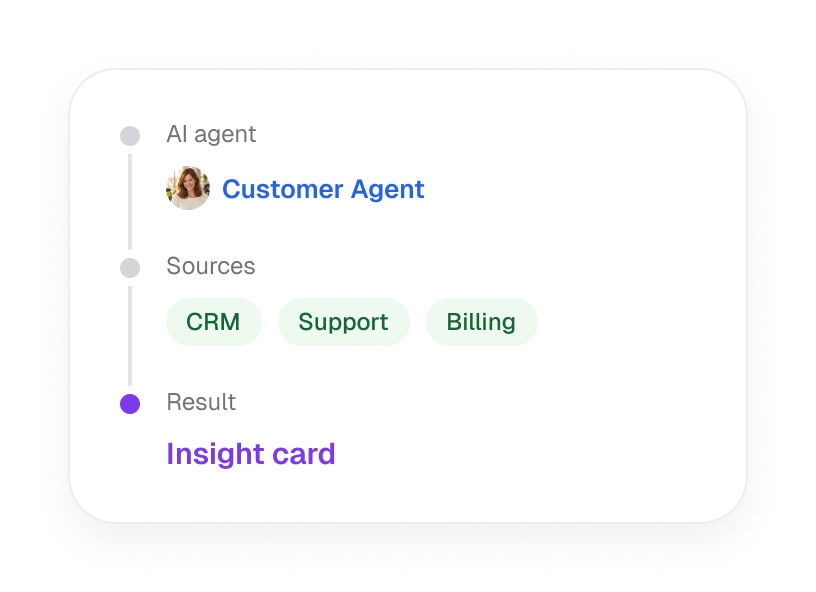
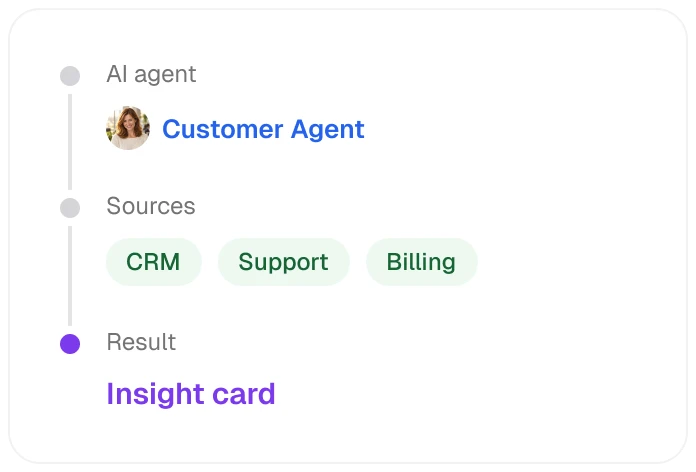
How TMAI works: process panels like the callouts (radius 16, no shadow), new Connected to your organization plate
Claude-Session: https://claude.ai/code/session_016hTNmUsGmfBSKFqfQEtQyT

diff --git a/business/index.html b/business/index.html
@@ -77,9 +77,9 @@
       </div>
     </div>
     <template class="ag-stage-extra">
-      <div class="ag-tc" data-tab="m1" style="top:171px"><p class="cat">One Agent</p><h3>One agent. Connected to your business.</h3><p class="desc">One expert agent, multiple trusted data sources, one clear result.</p><div class="conn"><b>Connected to your organization</b><ul><li>Databases</li><li>Data Warehouses</li><li>ERP / CRM</li><li>APIs</li><li>Documents</li><li>Internal Systems</li></ul></div><p class="own"><svg viewBox="0 0 24 24" fill="none" stroke="currentColor" stroke-width="1.6" stroke-linecap="round" stroke-linejoin="round" aria-hidden="true"><rect width="18" height="11" x="3" y="11" rx="2" ry="2"/><path d="M7 11V7a5 5 0 0 1 10 0v4"/></svg>Your data. Your control.</p></div>
-      <div class="ag-tc" data-tab="m2" style="top:134px"><p class="cat">AI Agent Teams</p><h3>One goal. Specialized agents working together.</h3><p class="desc">TMAI coordinates different agents, reconciles findings and creates a unified outcome.</p><div class="conn"><b>Connected to your organization</b><ul><li>Databases</li><li>Data Warehouses</li><li>ERP / CRM</li><li>APIs</li><li>Documents</li><li>Internal Systems</li></ul></div><p class="own"><svg viewBox="0 0 24 24" fill="none" stroke="currentColor" stroke-width="1.6" stroke-linecap="round" stroke-linejoin="round" aria-hidden="true"><rect width="18" height="11" x="3" y="11" rx="2" ry="2"/><path d="M7 11V7a5 5 0 0 1 10 0v4"/></svg>Your data. Your control.</p></div>
-      <div class="ag-tc" data-tab="m3" style="top:180px"><p class="cat">People + AI</p><h3>Your people and AI. One team.</h3><p class="desc">Employees set direction and retain control; agents coordinate the work and execute authorized steps.</p><div class="conn"><b>Connected to your organization</b><ul><li>Databases</li><li>Data Warehouses</li><li>ERP / CRM</li><li>APIs</li><li>Documents</li><li>Internal Systems</li></ul></div><p class="own"><svg viewBox="0 0 24 24" fill="none" stroke="currentColor" stroke-width="1.6" stroke-linecap="round" stroke-linejoin="round" aria-hidden="true"><rect width="18" height="11" x="3" y="11" rx="2" ry="2"/><path d="M7 11V7a5 5 0 0 1 10 0v4"/></svg>Your data. Your control.</p></div>
+      <div class="ag-tc mid" data-tab="m1"><p class="cat">One Agent</p><h3>One agent. Connected to your business.</h3><p class="desc">One expert agent, multiple trusted data sources, one clear result.</p><div class="conn"><div><b>Connected to your organization</b><ul><li>Databases</li><li>ERP / CRM</li><li>Documents</li><li>Data Warehouses</li><li>APIs</li><li>Internal Systems</li></ul></div><p class="own"><svg viewBox="0 0 24 24" fill="none" stroke="currentColor" stroke-width="1.6" stroke-linecap="round" stroke-linejoin="round" aria-hidden="true"><rect width="18" height="11" x="3" y="11" rx="2" ry="2"/><path d="M7 11V7a5 5 0 0 1 10 0v4"/></svg>Your data. Your control.</p></div></div>
+      <div class="ag-tc mid" data-tab="m2"><p class="cat">AI Agent Teams</p><h3>One goal. Specialized agents working together.</h3><p class="desc">TMAI coordinates different agents, reconciles findings and creates a unified outcome.</p><div class="conn"><div><b>Connected to your organization</b><ul><li>Databases</li><li>ERP / CRM</li><li>Documents</li><li>Data Warehouses</li><li>APIs</li><li>Internal Systems</li></ul></div><p class="own"><svg viewBox="0 0 24 24" fill="none" stroke="currentColor" stroke-width="1.6" stroke-linecap="round" stroke-linejoin="round" aria-hidden="true"><rect width="18" height="11" x="3" y="11" rx="2" ry="2"/><path d="M7 11V7a5 5 0 0 1 10 0v4"/></svg>Your data. Your control.</p></div></div>
+      <div class="ag-tc mid" data-tab="m3"><p class="cat">People + AI</p><h3>Your people and AI. One team.</h3><p class="desc">Employees set direction and retain control; agents coordinate the work and execute authorized steps.</p><div class="conn"><div><b>Connected to your organization</b><ul><li>Databases</li><li>ERP / CRM</li><li>Documents</li><li>Data Warehouses</li><li>APIs</li><li>Internal Systems</li></ul></div><p class="own"><svg viewBox="0 0 24 24" fill="none" stroke="currentColor" stroke-width="1.6" stroke-linecap="round" stroke-linejoin="round" aria-hidden="true"><rect width="18" height="11" x="3" y="11" rx="2" ry="2"/><path d="M7 11V7a5 5 0 0 1 10 0v4"/></svg>Your data. Your control.</p></div></div>
       <div class="ag-dl cta">
         <h3>Make Your Entire Organization More Intelligent.</h3>
         <p>Connect your systems. Activate your agents. Bring people and AI together around real business outcomes.</p>
@@ -126,8 +126,8 @@
 <script>
 const hero=document.getElementById("top");
 TMAINav(hero);
-const AG_STORIES = {"base":"/images/ag/b2b/","chat":{"x":17.8,"y":104.05,"w":321,"h":496},"chromes":{"intro":"ph_intro1"},"tabs":[{"key":"exec","label":"Executive Intelligence","icon":"<path d=\"M12 12h.01\"/><path d=\"M16 6V4a2 2 0 0 0-2-2h-4a2 2 0 0 0-2 2v2\"/><path d=\"M22 13a18.15 18.15 0 0 1-20 0\"/><rect width=\"20\" height=\"14\" x=\"2\" y=\"6\" rx=\"2\"/>"},{"key":"ops","label":"Predictive Operations","icon":"<path d=\"M22 12h-2.48a2 2 0 0 0-1.93 1.46l-2.35 8.36a.25.25 0 0 1-.48 0L9.24 2.18a.25.25 0 0 0-.48 0l-2.35 8.36A2 2 0 0 1 4.49 12H2\"/>"},{"key":"fin","label":"Financial Control","icon":"<path d=\"M20 13c0 5-3.5 7.5-7.66 8.95a1 1 0 0 1-.67-.01C7.5 20.5 4 18 4 13V6a1 1 0 0 1 1-1c2 0 4.5-1.2 6.24-2.72a1.17 1.17 0 0 1 1.52 0C14.51 3.81 17 5 19 5a1 1 0 0 1 1 1z\"/><path d=\"m9 12 2 2 4-4\"/>"},{"key":"mem","label":"Organizational Memory","icon":"<rect x=\"16\" y=\"16\" width=\"6\" height=\"6\" rx=\"1\"/><rect x=\"2\" y=\"16\" width=\"6\" height=\"6\" rx=\"1\"/><rect x=\"9\" y=\"2\" width=\"6\" height=\"6\" rx=\"1\"/><path d=\"M5 16v-3a1 1 0 0 1 1-1h12a1 1 0 0 1 1 1v3\"/><path d=\"M12 12V8\"/>"},{"key":"multi","label":"Multi-Agent Execution","icon":"<path d=\"M16 21v-2a4 4 0 0 0-4-4H6a4 4 0 0 0-4 4v2\"/><circle cx=\"9\" cy=\"7\" r=\"4\"/><path d=\"M22 21v-2a4 4 0 0 0-3-3.87\"/><path d=\"M16 3.13a4 4 0 0 1 0 7.75\"/>"}],"frames":[{"id":"1212:21208","tab":"exec","chrome":"ph_exec","c":[["co_1212:21452",1000,691,280,54,"The CEO orders staff cuts"]],"l":[["The CEO orders staff cuts",1000,718,837,718]]},{"id":"1212:21463","tab":"exec","chrome":"ph_exec","c":[["co_1212:21728",1000,646,280,54,"TMAI disagrees"]],"l":[["TMAI disagrees",1000,673,863,673]]},{"id":"1212:21739","tab":"exec","chrome":"ph_exec","c":[["co_1272:36768",1000,508,280,186,"Cross-system analysis"]],"l":[["Cross-system analysis",1000,528,863,528]]},{"id":"1212:22099","tab":"exec","chrome":"ph_exec","c":[["co_1212:22457",1000,693,280,54,"CEO asks follow-up"]],"l":[["CEO asks follow-up",1000,720,837,720]]},{"id":"1212:22468","tab":"exec","chrome":"ph_exec_1","c":[["co_1212:22849",1000,702,280,54,"Agent joins"]],"l":[["Agent joins",1000,729,828,729]]},{"id":"1212:22860","tab":"exec","chrome":"ph_exec_1","c":[["co_1272:36788",1000,660,280,114,"Actionable response"]],"l":[["Actionable response",1000,680,863,680]]},{"id":"1222:23158","tab":"ops","chrome":"ph_ops","c":[["co_1222:23400",1000,702,280,82,"Proactive alert"]],"l":[["Proactive alert",1000,722,870,722]]},{"id":"1222:23415","tab":"ops","chrome":"ph_ops","c":[["co_1222:23664",1000,597,280,82,"An agent initiates contact"]],"l":[["An agent initiates contact",1000,617,863,617]]},{"id":"1222:23679","tab":"ops","chrome":"ph_ops","c":[["co_1222:23996",1000,536,280,130,"Sensor trend"]],"l":[["Sensor trend",1000,556,863,556]]},{"id":"1222:24016","tab":"ops","chrome":"ph_ops","c":[["co_1222:24347",1000,691,280,54,"Executive objection"]],"l":[["Executive objection",1000,718,837,718]]},{"id":"1222:24362","tab":"ops","chrome":"ph_ops_1","c":[["co_1222:24716",1000,702,280,102,"Agent invitations"]],"l":[["Agent invitations",1000,722,843,722]]},{"id":"1222:24731","tab":"ops","chrome":"ph_ops_1","c":[["co_1222:25125",1000,668,280,54,"Short replies"]],"l":[["Short replies",1000,695,863,695]]},{"id":"1222:25140","tab":"ops","chrome":"ph_ops_1","c":[["co_1272:36798",1000,525,280,114,"To preserve deadlines"]],"l":[["To preserve deadlines",1000,545,863,545]]},{"id":"1225:25314","tab":"fin","chrome":"ph_fin","c":[["co_1225:25553",1000,691,280,102,"Payment instruction"]],"l":[["Payment instruction",1000,711,837,711]]},{"id":"1225:25568","tab":"fin","chrome":"ph_fin","c":[["co_1225:25827",1000,668,280,82,"AI blocks"]],"l":[["AI blocks",1000,688,863,688]]},{"id":"1225:25842","tab":"fin","chrome":"ph_fin","c":[["co_1272:36778",1000,556,280,130,"TMAI detects a mismatch"]],"l":[["TMAI detects a mismatch",1000,576,863,576]]},{"id":"1225:26189","tab":"fin","chrome":"ph_fin","c":[["co_1225:26530",1000,693,280,54,"CFO requests Legal"]],"l":[["CFO requests Legal",1000,720,837,720]]},{"id":"1225:26545","tab":"fin","chrome":"ph_fin_1","c":[["co_1225:26889",1000,702,280,54,"TMAI consults Legal"]],"l":[["TMAI consults Legal",1000,729,776,729]]},{"id":"1225:26904","tab":"fin","chrome":"ph_fin_1","c":[["co_1225:27268",1000,660,280,54,"Legal Agent responds"]],"l":[["Legal Agent responds",1000,687,863,687]]},{"id":"1225:27283","tab":"fin","chrome":"ph_fin_1","c":[["co_1272:36808",1000,550,280,150,"Approval card"]],"l":[["Approval card",1000,570,863,570]]},{"id":"1241:29340","tab":"mem","chrome":"ph_mem","c":[["co_1241:29385",1000,691,280,74,"Leadership asks why regional expansion failed"]],"l":[["Leadership asks why regional expansion failed",1000,718,863,718]]},{"id":"1241:29612","tab":"mem","chrome":"ph_mem","c":[["co_1241:29657",1000,668,280,122,"Trace response"]],"l":[["Trace response",1000,688,863,688]]},{"id":"1241:29904","tab":"mem","chrome":"ph_mem","c":[["co_1241:29949",1000,541,280,54,"Knowledge graph"]],"l":[["Knowledge graph",1000,568,863,568]]},{"id":"1241:30314","tab":"mem","chrome":"ph_mem","c":[["co_1241:30359",1000,602,280,102,"Three findings"]],"l":[["Three findings",1000,622,863,622]]},{"id":"1241:30794","tab":"mem","chrome":"ph_mem","c":[["co_1241:30839",1000,609,280,54,"Evidence card"]],"l":[["Evidence card",1000,636,863,636]]},{"id":"1241:31344","tab":"mem","chrome":"ph_mem","c":[["co_1241:31389",1000,685,280,54,"Counterfactual follow-up"]],"l":[["Counterfactual follow-up",1000,712,863,712]]},{"id":"1241:31908","tab":"mem","chrome":"ph_mem","c":[["co_1241:31953",1000,660,280,74,"Distinguish documented facts from assumptions"]],"l":[["Distinguish documented facts from assumptions",1000,687,863,687]]},{"id":"1244:34491","tab":"multi","chrome":"ph_multi","c":[["co_1244:34536",1000,691,280,82,"CEO goal"]],"l":[["CEO goal",1000,711,863,711]]},{"id":"1244:34763","tab":"multi","chrome":"ph_multi","c":[["co_1244:34808",1000,668,280,54,"Strategy Agent"]],"l":[["Strategy Agent",1000,695,863,695]]},{"id":"1244:35055","tab":"multi","chrome":"ph_multi_1","c":[["co_1244:35100",1000,702,280,54,"Specialist agents appear"]],"l":[["Specialist agents appear",1000,729,863,729]]},{"id":"1244:35350","tab":"multi","chrome":"ph_multi_1","c":[["co_1244:35395",1000,668,280,102,"Agents challenge the assumptions"]],"l":[["Agents challenge the assumptions",1000,688,863,688]]},{"id":"1244:35685","tab":"multi","chrome":"ph_multi_1","c":[["co_1244:35730",1000,685,280,54,"CEO pushes back"]],"l":[["CEO pushes back",1000,712,863,712]]},{"id":"1244:36034","tab":"multi","chrome":"ph_multi_1","c":[["co_1244:36079",1000,660,280,54,"Subject to validation"]],"l":[["Subject to validation",1000,687,863,687]]},{"id":"1244:36403","tab":"multi","chrome":"ph_multi_1","c":[["co_1244:36448",1000,520,280,102,"Agent agreement"]],"l":[["Agent agreement",1000,540,863,540]]}],"meta":{"multi_00_sys":{"w":49,"h":28,"pad":4},"co_1222:24347":{"w":280,"h":54,"pad":4},"fin_07_ethan":{"w":282,"h":327,"pad":5},"co_1225:26889":{"w":280,"h":54,"pad":4},"co_1241:30839":{"w":280,"h":54,"pad":4},"ph_multi_1":{"w":357,"h":724,"pad":0},"co_1222:23664":{"w":280,"h":82,"pad":4},"co_1225:25553":{"w":280,"h":102,"pad":4},"co_1244:35395":{"w":280,"h":102,"pad":4},"mem_07_olivia":{"w":282,"h":111,"pad":5},"fin_00_sys":{"w":49,"h":28,"pad":4},"ops_06_tom":{"w":282,"h":95,"pad":5},"co_1222:25125":{"w":280,"h":54,"pad":4},"co_1244:36448":{"w":280,"h":102,"pad":4},"ops_01_marcus":{"w":282,"h":234,"pad":5},"co_1272:36808":{"w":280,"h":150,"pad":4},"mem_06_you_ceo":{"w":282,"h":58,"pad":4},"co_1222:24716":{"w":280,"h":102,"pad":4},"exec_04_you_ceo":{"w":282,"h":42,"pad":4},"multi_08_daniel":{"w":282,"h":435,"pad":4},"mem_01_you_ceo":{"w":282,"h":58,"pad":4},"mem_03_olivia":{"w":282,"h":348,"pad":5},"mem_02_olivia":{"w":282,"h":95,"pad":5},"ops_08_marcus":{"w":282,"h":390,"pad":5},"exec_06_sys":{"w":213,"h":28,"pad":4},"ph_mem":{"w":357,"h":724,"pad":0},"co_1241:29385":{"w":280,"h":74,"pad":4},"co_1225:27268":{"w":280,"h":54,"pad":4},"multi_02_daniel":{"w":282,"h":95,"pad":5},"co_1272:36768":{"w":280,"h":186,"pad":4},"ops_07_nina":{"w":282,"h":95,"pad":5},"multi_05_ethan":{"w":282,"h":95,"pad":5},"fin_05_sys":{"w":109,"h":28,"pad":4},"co_1272:36778":{"w":280,"h":130,"pad":4},"fin_04_you_cfo":{"w":282,"h":42,"pad":4},"mem_04_olivia":{"w":282,"h":236,"pad":5},"mem_00_sys":{"w":49,"h":28,"pad":4},"ph_fin":{"w":357,"h":724,"pad":0},"exec_02_rachel":{"w":282,"h":139,"pad":5},"ops_04_marcus":{"w":282,"h":95,"pad":5},"multi_03_sys":{"w":269,"h":28,"pad":4},"mem_05_olivia":{"w":282,"h":211,"pad":5},"multi_07_marcus":{"w":282,"h":95,"pad":5},"co_1244:35730":{"w":280,"h":54,"pad":4},"fin_03_ethan":{"w":282,"h":313,"pad":5},"fin_06_grace":{"w":282,"h":111,"pad":5},"exec_00_sys":{"w":49,"h":28,"pad":4},"co_1244:36079":{"w":280,"h":54,"pad":4},"ph_fin_1":{"w":357,"h":724,"pad":0},"exec_01_you_ceo":{"w":282,"h":58,"pad":4},"exec_03_rachel":{"w":282,"h":407,"pad":5},"nt_ops":{"w":295,"h":89,"pad":29},"co_1272:36788":{"w":280,"h":114,"pad":4},"ph_intro1":{"w":357,"h":724,"pad":0},"ops_01_marcus_v1":{"w":282,"h":237,"pad":4},"co_1212:22849":{"w":280,"h":54,"pad":4},"co_1212:21452":{"w":280,"h":54,"pad":4},"co_1212:22457":{"w":280,"h":54,"pad":4},"ph_exec_1":{"w":357,"h":724,"pad":0},"exec_07_marcus":{"w":282,"h":95,"pad":5},"co_1222:23400":{"w":280,"h":82,"pad":4},"co_1241:31953":{"w":280,"h":74,"pad":4},"co_1244:35100":{"w":280,"h":54,"pad":4},"co_1244:34536":{"w":280,"h":82,"pad":4},"ph_ops":{"w":357,"h":724,"pad":0},"co_1244:34808":{"w":280,"h":54,"pad":4},"ph_ops_1":{"w":357,"h":724,"pad":0},"ops_02_marcus":{"w":282,"h":357,"pad":5},"fin_02_ethan":{"w":282,"h":95,"pad":5},"ops_03_you_ceo":{"w":282,"h":58,"pad":4},"ops_00_sys":{"w":49,"h":28,"pad":4},"co_1241:31389":{"w":280,"h":54,"pad":4},"co_1222:23996":{"w":280,"h":130,"pad":4},"co_1241:30359":{"w":280,"h":102,"pad":4},"ops_02_marcus_v1":{"w":282,"h":360,"pad":5},"co_1241:29949":{"w":280,"h":54,"pad":4},"co_1212:21728":{"w":280,"h":54,"pad":4},"co_1225:25827":{"w":280,"h":82,"pad":4},"multi_06_you_ceo":{"w":282,"h":58,"pad":4},"fin_01_you_cfo":{"w":282,"h":58,"pad":4},"co_1241:29657":{"w":280,"h":122,"pad":4},"ops_05_sys":{"w":245,"h":28,"pad":4},"multi_04_grace":{"w":282,"h":95,"pad":5},"co_1272:36798":{"w":280,"h":114,"pad":4},"ph_exec":{"w":357,"h":724,"pad":0},"ph_multi":{"w":357,"h":724,"pad":0},"exec_05_rachel":{"w":282,"h":95,"pad":5},"co_1225:26530":{"w":280,"h":54,"pad":4},"multi_01_you_ceo":{"w":282,"h":58,"pad":4}},"start":{"exec":["exec_00_sys"],"ops":["ops_00_sys"],"fin":["fin_00_sys"],"mem":["mem_00_sys"],"multi":["multi_00_sys"]},"ops":{"1212:21208":[["me","exec_01_you_ceo"]],"1212:21463":[["typing","exec_02_rachel"],["wait",1100],["reply","exec_02_rachel"]],"1212:21739":[["typing","exec_03_rachel"],["wait",1300],["reply","exec_03_rachel"]],"1212:22099":[["me","exec_04_you_ceo"]],"1212:22468":[["typing","exec_05_rachel"],["wait",1100],["reply","exec_05_rachel"],["wait",900],["chrome","ph_exec_1"],["add","exec_06_sys"]],"1212:22860":[["typing","exec_07_marcus"],["wait",1100],["reply","exec_07_marcus"]],"1222:23158":[["wait",300],["notif",["nt_ops",573,212.8]]],"1222:23415":[["unnotif"],["typing","ops_01_marcus"],["wait",1300],["reply","ops_01_marcus"]],"1222:23679":[["typing","ops_02_marcus"],["wait",1300],["reply","ops_02_marcus"]],"1222:24016":[["me","ops_03_you_ceo"]],"1222:24362":[["state","ops_01_marcus","ops_01_marcus_v1",240],["typing","ops_04_marcus"],["wait",1100],["reply","ops_04_marcus"],["wait",900],["chrome","ph_ops_1"],["add","ops_05_sys"]],"1222:24731":[["state","ops_02_marcus","ops_02_marcus_v1",240],["typing","ops_06_tom"],["wait",1100],["reply","ops_06_tom"],["wait",900],["typing","ops_07_nina"],["wait",1100],["reply","ops_07_nina"]],"1222:25140":[["typing","ops_08_marcus"],["wait",1300],["reply","ops_08_marcus"]],"1225:25314":[["me","fin_01_you_cfo"]],"1225:25568":[["typing","fin_02_ethan"],["wait",1100],["reply","fin_02_ethan"]],"1225:25842":[["typing","fin_03_ethan"],["wait",1300],["reply","fin_03_ethan"]],"1225:26189":[["me","fin_04_you_cfo"]],"1225:26545":[["chrome","ph_fin_1"],["add","fin_05_sys"]],"1225:26904":[["typing","fin_06_grace"],["wait",1100],["reply","fin_06_grace"]],"1225:27283":[["typing","fin_07_ethan"],["wait",1300],["reply","fin_07_ethan"]],"1241:29340":[["me","mem_01_you_ceo"]],"1241:29612":[["typing","mem_02_olivia"],["wait",1100],["reply","mem_02_olivia"]],"1241:29904":[["typing","mem_03_olivia"],["wait",1300],["reply","mem_03_olivia"]],"1241:30314":[["typing","mem_04_olivia"],["wait",1300],["reply","mem_04_olivia"]],"1241:30794":[["typing","mem_05_olivia"],["wait",1300],["reply","mem_05_olivia"]],"1241:31344":[["me","mem_06_you_ceo"]],"1241:31908":[["typing","mem_07_olivia"],["wait",1100],["reply","mem_07_olivia"]],"1244:34491":[["me","multi_01_you_ceo"]],"1244:34763":[["typing","multi_02_daniel"],["wait",1100],["reply","multi_02_daniel"]],"1244:35055":[["chrome","ph_multi_1"],["add","multi_03_sys"]],"1244:35350":[["typing","multi_04_grace"],["wait",1100],["reply","multi_04_grace"],["wait",900],["typing","multi_05_ethan"],["wait",1100],["reply","multi_05_ethan"]],"1244:35685":[["me","multi_06_you_ceo"]],"1244:36034":[["typing","multi_07_marcus"],["wait",1100],["reply","multi_07_marcus"]],"1244:36403":[["typing","multi_08_daniel"],["wait",1300],["reply","multi_08_daniel"]]},"hold":{"1212:21208":2400,"1212:21463":2800,"1212:21739":3600,"1212:22099":2400,"1212:22468":2800,"1212:22860":2800,"1222:23158":3200,"1222:23415":3600,"1222:23679":3600,"1222:24016":2400,"1222:24362":2800,"1222:24731":2800,"1222:25140":3600,"1225:25314":2400,"1225:25568":2800,"1225:25842":3600,"1225:26189":2400,"1225:26545":2800,"1225:26904":2800,"1225:27283":3600,"1241:29340":2400,"1241:29612":2800,"1241:29904":3600,"1241:30314":3600,"1241:30794":3600,"1241:31344":2400,"1241:31908":2800,"1244:34491":2400,"1244:34763":2800,"1244:35055":2800,"1244:35350":2800,"1244:35685":2400,"1244:36034":2800,"1244:36403":3600},"tabsLabel":"Choose a story","purpleBody":false};
-const AG_HOW = {"base":"/images/ag/b2b/","chat":{"x":17.8,"y":104.05,"w":321,"h":496},"chromes":{"intro":"ph_intro2","req":"ph_final"},"tabs":[{"key":"m1","label":"One Agent","icon":"<path d=\"M7.9 20A9 9 0 1 0 4 16.1L2 22Z\"/>"},{"key":"m2","label":"AI Agent Teams","icon":"<path d=\"M9.94 14.06 12 21l2.06-6.94L21 12l-6.94-2.06L12 3 9.94 9.94 3 12Z\"/><path d=\"M20 3v4\"/><path d=\"M22 5h-4\"/>"},{"key":"m3","label":"People + AI","icon":"<path d=\"M16 21v-2a4 4 0 0 0-4-4H6a4 4 0 0 0-4 4v2\"/><circle cx=\"9\" cy=\"7\" r=\"4\"/><path d=\"M22 21v-2a4 4 0 0 0-3-3.87\"/><path d=\"M16 3.13a4 4 0 0 1 0 7.75\"/>"},{"key":"req","label":"Request","icon":"<path d=\"M21 7.5V6a2 2 0 0 0-2-2H5a2 2 0 0 0-2 2v14a2 2 0 0 0 2 2h3.5\"/><path d=\"M16 2v4\"/><path d=\"M8 2v4\"/><path d=\"M3 10h5\"/><path d=\"M17.5 17.5 16 16.3V14\"/><circle cx=\"16\" cy=\"16\" r=\"6\"/>","final":true}],"frames":[{"id":"1260:34428","tab":"m1","chrome":"ph_m1","c":[["pr_1296:37233",960,464,340,96,"How it works","proc"]],"l":[]},{"id":"1260:34702","tab":"m1","chrome":"ph_m1","c":[["pr_1296:37243",960,430,340,164,"How it works","proc"]],"l":[]},{"id":"1260:35008","tab":"m1","chrome":"ph_m1","c":[["pr_1296:37266",960,430,340,164,"How it works","proc"]],"l":[]},{"id":"1260:35372","tab":"m1","chrome":"ph_m1","c":[["pr_1296:37289",960,398,340,228,"How it works","proc"]],"l":[]},{"id":"1260:35762","tab":"m2","chrome":"ph_m2","c":[["pr_1296:37319",960,464,340,96,"How it works","proc"]],"l":[]},{"id":"1260:36052","tab":"m2","chrome":"ph_m2","c":[["pr_1296:37329",960,431,340,162,"How it works","proc"]],"l":[]},{"id":"1260:36376","tab":"m2","chrome":"ph_m2_1","c":[["pr_1296:37355",960,431,340,162,"How it works","proc"]],"l":[]},{"id":"1260:36720","tab":"m2","chrome":"ph_m2_1","c":[["pr_1296:37381",960,431,340,162,"How it works","proc"]],"l":[]},{"id":"1260:37084","tab":"m2","chrome":"ph_m2_1","c":[["pr_1296:37407",960,397,340,230,"How it works","proc"]],"l":[]},{"id":"1260:37468","tab":"m2","chrome":"ph_m2_1","c":[["pr_1296:37444",960,365,340,314,"How it works","proc"]],"l":[]},{"id":"1260:37902","tab":"m3","chrome":"ph_m3","c":[["pr_1296:37488",960,431,340,162,"How it works","proc"]],"l":[]},{"id":"1260:38204","tab":"m3","chrome":"ph_m3","c":[["pr_1296:37514",960,431,340,162,"How it works","proc"]],"l":[]},{"id":"1260:38526","tab":"m3","chrome":"ph_m3","c":[["pr_1296:37540",960,399,340,226,"How it works","proc"]],"l":[]},{"id":"1260:38874","tab":"m3","chrome":"ph_m3","c":[["pr_1296:37573",960,383,340,324,"How it works","proc"]],"l":[]},{"id":"1260:39246","tab":"m3","chrome":"ph_m3","c":[["pr_1296:37611",960,335,340,420,"How it works","proc"]],"l":[]}],"meta":{"pr_1296:37329":{"w":340,"h":162,"pad":34},"m2_02_adam":{"w":282,"h":95,"pad":5},"ph_m1":{"w":357,"h":724,"pad":0},"m1_01_you":{"w":282,"h":58,"pad":4},"m1_04_sophie":{"w":282,"h":111,"pad":5},"m3_04_cfo":{"w":282,"h":95,"pad":5},"ph_m2_1":{"w":357,"h":724,"pad":0},"m3_02_marcus":{"w":282,"h":95,"pad":5},"pr_1296:37381":{"w":340,"h":162,"pad":34},"m2_00_sys":{"w":49,"h":28,"pad":4},"m3_01_you":{"w":282,"h":58,"pad":4},"m1_00_sys":{"w":49,"h":28,"pad":4},"pr_1296:37289":{"w":340,"h":228,"pad":34},"m2_05_adam":{"w":282,"h":95,"pad":5},"ph_intro2":{"w":357,"h":724,"pad":0},"pr_1296:37514":{"w":340,"h":162,"pad":34},"pr_1296:37573":{"w":340,"h":324,"pad":34},"m3_00_sys":{"w":49,"h":28,"pad":4},"m1_02_sophie":{"w":282,"h":193,"pad":5},"pr_1296:37488":{"w":340,"h":162,"pad":34},"m1_03_sophie":{"w":282,"h":362,"pad":5},"pr_1296:37319":{"w":340,"h":96,"pad":34},"pr_1296:37444":{"w":340,"h":314,"pad":34},"pr_1296:37611":{"w":340,"h":420,"pad":34},"m2_01_you":{"w":282,"h":58,"pad":4},"m2_03_ethan":{"w":282,"h":95,"pad":5},"pr_1296:37266":{"w":340,"h":164,"pad":34},"ph_m3":{"w":357,"h":724,"pad":0},"ph_m2":{"w":357,"h":724,"pad":0},"pr_1296:37540":{"w":340,"h":226,"pad":34},"pr_1296:37233":{"w":340,"h":96,"pad":34},"pr_1296:37355":{"w":340,"h":162,"pad":34},"m2_06_adam":{"w":282,"h":218,"pad":5},"m3_05_marcus":{"w":282,"h":95,"pad":5},"ph_final":{"w":357,"h":724,"pad":0},"pr_1296:37243":{"w":340,"h":164,"pad":34},"m2_04_jake":{"w":282,"h":95,"pad":5},"pr_1296:37407":{"w":340,"h":230,"pad":34},"m3_03_ethan":{"w":282,"h":95,"pad":5}},"start":{"m1":["m1_00_sys"],"m2":["m2_00_sys"],"m3":["m3_00_sys"]},"ops":{"1260:34428":[["me","m1_01_you"]],"1260:34702":[["typing","m1_02_sophie"],["wait",1300],["reply","m1_02_sophie"]],"1260:35008":[["typing","m1_03_sophie"],["wait",1300],["reply","m1_03_sophie"]],"1260:35372":[["typing","m1_04_sophie"],["wait",1100],["reply","m1_04_sophie"]],"1260:35762":[["me","m2_01_you"]],"1260:36052":[["typing","m2_02_adam"],["wait",1100],["reply","m2_02_adam"]],"1260:36376":[["chrome","ph_m2_1"],["typing","m2_03_ethan"],["wait",1100],["reply","m2_03_ethan"]],"1260:36720":[["typing","m2_04_jake"],["wait",1100],["reply","m2_04_jake"]],"1260:37084":[["typing","m2_05_adam"],["wait",1100],["reply","m2_05_adam"]],"1260:37468":[["typing","m2_06_adam"],["wait",1300],["reply","m2_06_adam"]],"1260:37902":[["me","m3_01_you"]],"1260:38204":[["typing","m3_02_marcus"],["wait",1100],["reply","m3_02_marcus"]],"1260:38526":[["typing","m3_03_ethan"],["wait",1100],["reply","m3_03_ethan"]],"1260:38874":[["typing","m3_04_cfo"],["wait",1100],["reply","m3_04_cfo"]],"1260:39246":[["typing","m3_05_marcus"],["wait",1100],["reply","m3_05_marcus"]]},"hold":{"1260:34428":2400,"1260:34702":2800,"1260:35008":3600,"1260:35372":2800,"1260:35762":2400,"1260:36052":2800,"1260:36376":2800,"1260:36720":2800,"1260:37084":2800,"1260:37468":3600,"1260:37902":2400,"1260:38204":2800,"1260:38526":2800,"1260:38874":2800,"1260:39246":2800},"tabsLabel":"How TMAI works","mobileFinalHeight":88};
+const AG_STORIES = {"base":"/images/ag/b2b/","chat":{"x":17.8,"y":104.05,"w":321,"h":496},"chromes":{"intro":"ph_intro1"},"tabs":[{"key":"exec","label":"Executive Intelligence","icon":"<path d=\"M12 12h.01\"/><path d=\"M16 6V4a2 2 0 0 0-2-2h-4a2 2 0 0 0-2 2v2\"/><path d=\"M22 13a18.15 18.15 0 0 1-20 0\"/><rect width=\"20\" height=\"14\" x=\"2\" y=\"6\" rx=\"2\"/>"},{"key":"ops","label":"Predictive Operations","icon":"<path d=\"M22 12h-2.48a2 2 0 0 0-1.93 1.46l-2.35 8.36a.25.25 0 0 1-.48 0L9.24 2.18a.25.25 0 0 0-.48 0l-2.35 8.36A2 2 0 0 1 4.49 12H2\"/>"},{"key":"fin","label":"Financial Control","icon":"<path d=\"M20 13c0 5-3.5 7.5-7.66 8.95a1 1 0 0 1-.67-.01C7.5 20.5 4 18 4 13V6a1 1 0 0 1 1-1c2 0 4.5-1.2 6.24-2.72a1.17 1.17 0 0 1 1.52 0C14.51 3.81 17 5 19 5a1 1 0 0 1 1 1z\"/><path d=\"m9 12 2 2 4-4\"/>"},{"key":"mem","label":"Organizational Memory","icon":"<rect x=\"16\" y=\"16\" width=\"6\" height=\"6\" rx=\"1\"/><rect x=\"2\" y=\"16\" width=\"6\" height=\"6\" rx=\"1\"/><rect x=\"9\" y=\"2\" width=\"6\" height=\"6\" rx=\"1\"/><path d=\"M5 16v-3a1 1 0 0 1 1-1h12a1 1 0 0 1 1 1v3\"/><path d=\"M12 12V8\"/>"},{"key":"multi","label":"Multi-Agent Execution","icon":"<path d=\"M16 21v-2a4 4 0 0 0-4-4H6a4 4 0 0 0-4 4v2\"/><circle cx=\"9\" cy=\"7\" r=\"4\"/><path d=\"M22 21v-2a4 4 0 0 0-3-3.87\"/><path d=\"M16 3.13a4 4 0 0 1 0 7.75\"/>"}],"frames":[{"id":"1212:21208","tab":"exec","chrome":"ph_exec","c":[["co_1212:21452",1000,691,280,54,"The CEO orders staff cuts"]],"l":[["The CEO orders staff cuts",1000,718,837,718]]},{"id":"1212:21463","tab":"exec","chrome":"ph_exec","c":[["co_1212:21728",1000,646,280,54,"TMAI disagrees"]],"l":[["TMAI disagrees",1000,673,863,673]]},{"id":"1212:21739","tab":"exec","chrome":"ph_exec","c":[["co_1272:36768",1000,508,280,186,"Cross-system analysis"]],"l":[["Cross-system analysis",1000,528,863,528]]},{"id":"1212:22099","tab":"exec","chrome":"ph_exec","c":[["co_1212:22457",1000,693,280,54,"CEO asks follow-up"]],"l":[["CEO asks follow-up",1000,720,837,720]]},{"id":"1212:22468","tab":"exec","chrome":"ph_exec_1","c":[["co_1212:22849",1000,702,280,54,"Agent joins"]],"l":[["Agent joins",1000,729,828,729]]},{"id":"1212:22860","tab":"exec","chrome":"ph_exec_1","c":[["co_1272:36788",1000,660,280,114,"Actionable response"]],"l":[["Actionable response",1000,680,863,680]]},{"id":"1222:23158","tab":"ops","chrome":"ph_ops","c":[["co_1222:23400",1000,702,280,82,"Proactive alert"]],"l":[["Proactive alert",1000,722,870,722]]},{"id":"1222:23415","tab":"ops","chrome":"ph_ops","c":[["co_1222:23664",1000,597,280,82,"An agent initiates contact"]],"l":[["An agent initiates contact",1000,617,863,617]]},{"id":"1222:23679","tab":"ops","chrome":"ph_ops","c":[["co_1222:23996",1000,536,280,130,"Sensor trend"]],"l":[["Sensor trend",1000,556,863,556]]},{"id":"1222:24016","tab":"ops","chrome":"ph_ops","c":[["co_1222:24347",1000,691,280,54,"Executive objection"]],"l":[["Executive objection",1000,718,837,718]]},{"id":"1222:24362","tab":"ops","chrome":"ph_ops_1","c":[["co_1222:24716",1000,702,280,102,"Agent invitations"]],"l":[["Agent invitations",1000,722,843,722]]},{"id":"1222:24731","tab":"ops","chrome":"ph_ops_1","c":[["co_1222:25125",1000,668,280,54,"Short replies"]],"l":[["Short replies",1000,695,863,695]]},{"id":"1222:25140","tab":"ops","chrome":"ph_ops_1","c":[["co_1272:36798",1000,525,280,114,"To preserve deadlines"]],"l":[["To preserve deadlines",1000,545,863,545]]},{"id":"1225:25314","tab":"fin","chrome":"ph_fin","c":[["co_1225:25553",1000,691,280,102,"Payment instruction"]],"l":[["Payment instruction",1000,711,837,711]]},{"id":"1225:25568","tab":"fin","chrome":"ph_fin","c":[["co_1225:25827",1000,668,280,82,"AI blocks"]],"l":[["AI blocks",1000,688,863,688]]},{"id":"1225:25842","tab":"fin","chrome":"ph_fin","c":[["co_1272:36778",1000,556,280,130,"TMAI detects a mismatch"]],"l":[["TMAI detects a mismatch",1000,576,863,576]]},{"id":"1225:26189","tab":"fin","chrome":"ph_fin","c":[["co_1225:26530",1000,693,280,54,"CFO requests Legal"]],"l":[["CFO requests Legal",1000,720,837,720]]},{"id":"1225:26545","tab":"fin","chrome":"ph_fin_1","c":[["co_1225:26889",1000,702,280,54,"TMAI consults Legal"]],"l":[["TMAI consults Legal",1000,729,776,729]]},{"id":"1225:26904","tab":"fin","chrome":"ph_fin_1","c":[["co_1225:27268",1000,660,280,54,"Legal Agent responds"]],"l":[["Legal Agent responds",1000,687,863,687]]},{"id":"1225:27283","tab":"fin","chrome":"ph_fin_1","c":[["co_1272:36808",1000,550,280,150,"Approval card"]],"l":[["Approval card",1000,570,863,570]]},{"id":"1241:29340","tab":"mem","chrome":"ph_mem","c":[["co_1241:29385",1000,691,280,74,"Leadership asks why regional expansion failed"]],"l":[["Leadership asks why regional expansion failed",1000,718,863,718]]},{"id":"1241:29612","tab":"mem","chrome":"ph_mem","c":[["co_1241:29657",1000,668,280,122,"Trace response"]],"l":[["Trace response",1000,688,863,688]]},{"id":"1241:29904","tab":"mem","chrome":"ph_mem","c":[["co_1241:29949",1000,541,280,54,"Knowledge graph"]],"l":[["Knowledge graph",1000,568,863,568]]},{"id":"1241:30314","tab":"mem","chrome":"ph_mem","c":[["co_1241:30359",1000,602,280,102,"Three findings"]],"l":[["Three findings",1000,622,863,622]]},{"id":"1241:30794","tab":"mem","chrome":"ph_mem","c":[["co_1241:30839",1000,609,280,54,"Evidence card"]],"l":[["Evidence card",1000,636,863,636]]},{"id":"1241:31344","tab":"mem","chrome":"ph_mem","c":[["co_1241:31389",1000,685,280,54,"Counterfactual follow-up"]],"l":[["Counterfactual follow-up",1000,712,863,712]]},{"id":"1241:31908","tab":"mem","chrome":"ph_mem","c":[["co_1241:31953",1000,660,280,74,"Distinguish documented facts from assumptions"]],"l":[["Distinguish documented facts from assumptions",1000,687,863,687]]},{"id":"1244:34491","tab":"multi","chrome":"ph_multi","c":[["co_1244:34536",1000,691,280,82,"CEO goal"]],"l":[["CEO goal",1000,711,863,711]]},{"id":"1244:34763","tab":"multi","chrome":"ph_multi","c":[["co_1244:34808",1000,668,280,54,"Strategy Agent"]],"l":[["Strategy Agent",1000,695,863,695]]},{"id":"1244:35055","tab":"multi","chrome":"ph_multi_1","c":[["co_1244:35100",1000,702,280,54,"Specialist agents appear"]],"l":[["Specialist agents appear",1000,729,863,729]]},{"id":"1244:35350","tab":"multi","chrome":"ph_multi_1","c":[["co_1244:35395",1000,668,280,102,"Agents challenge the assumptions"]],"l":[["Agents challenge the assumptions",1000,688,863,688]]},{"id":"1244:35685","tab":"multi","chrome":"ph_multi_1","c":[["co_1244:35730",1000,685,280,54,"CEO pushes back"]],"l":[["CEO pushes back",1000,712,863,712]]},{"id":"1244:36034","tab":"multi","chrome":"ph_multi_1","c":[["co_1244:36079",1000,660,280,54,"Subject to validation"]],"l":[["Subject to validation",1000,687,863,687]]},{"id":"1244:36403","tab":"multi","chrome":"ph_multi_1","c":[["co_1244:36448",1000,520,280,102,"Agent agreement"]],"l":[["Agent agreement",1000,540,863,540]]}],"meta":{"ops_03_you_ceo":{"w":282,"h":58,"pad":4},"co_1222:24716":{"w":280,"h":102,"pad":4},"ph_ops_1":{"w":357,"h":724,"pad":0},"co_1222:25125":{"w":280,"h":54,"pad":4},"ph_ops":{"w":357,"h":724,"pad":0},"co_1241:31953":{"w":280,"h":74,"pad":4},"ph_fin_1":{"w":357,"h":724,"pad":0},"multi_00_sys":{"w":49,"h":28,"pad":4},"co_1272:36778":{"w":280,"h":130,"pad":4},"co_1244:36448":{"w":280,"h":102,"pad":4},"multi_02_daniel":{"w":282,"h":95,"pad":5},"exec_02_rachel":{"w":282,"h":139,"pad":5},"co_1241:30359":{"w":280,"h":102,"pad":4},"multi_01_you_ceo":{"w":282,"h":58,"pad":4},"co_1244:34536":{"w":280,"h":82,"pad":4},"multi_06_you_ceo":{"w":282,"h":58,"pad":4},"fin_00_sys":{"w":49,"h":28,"pad":4},"ph_multi_1":{"w":357,"h":724,"pad":0},"co_1244:36079":{"w":280,"h":54,"pad":4},"multi_05_ethan":{"w":282,"h":95,"pad":5},"exec_00_sys":{"w":49,"h":28,"pad":4},"co_1225:25553":{"w":280,"h":102,"pad":4},"ph_mem":{"w":357,"h":724,"pad":0},"ops_08_marcus":{"w":282,"h":390,"pad":5},"fin_06_grace":{"w":282,"h":111,"pad":5},"multi_08_daniel":{"w":282,"h":435,"pad":4},"ops_02_marcus":{"w":282,"h":357,"pad":5},"co_1272:36788":{"w":280,"h":114,"pad":4},"ops_07_nina":{"w":282,"h":95,"pad":5},"co_1212:21728":{"w":280,"h":54,"pad":4},"co_1225:27268":{"w":280,"h":54,"pad":4},"fin_02_ethan":{"w":282,"h":95,"pad":5},"ops_01_marcus":{"w":282,"h":234,"pad":5},"nt_ops":{"w":295,"h":89,"pad":29},"co_1241:29949":{"w":280,"h":54,"pad":4},"co_1244:35100":{"w":280,"h":54,"pad":4},"ph_multi":{"w":357,"h":724,"pad":0},"ops_01_marcus_v1":{"w":282,"h":237,"pad":4},"ops_05_sys":{"w":245,"h":28,"pad":4},"fin_01_you_cfo":{"w":282,"h":58,"pad":4},"co_1272:36798":{"w":280,"h":114,"pad":4},"mem_03_olivia":{"w":282,"h":348,"pad":5},"ops_04_marcus":{"w":282,"h":95,"pad":5},"co_1241:30839":{"w":280,"h":54,"pad":4},"fin_04_you_cfo":{"w":282,"h":42,"pad":4},"fin_05_sys":{"w":109,"h":28,"pad":4},"multi_03_sys":{"w":269,"h":28,"pad":4},"ops_00_sys":{"w":49,"h":28,"pad":4},"multi_04_grace":{"w":282,"h":95,"pad":5},"co_1222:23400":{"w":280,"h":82,"pad":4},"exec_03_rachel":{"w":282,"h":407,"pad":5},"mem_00_sys":{"w":49,"h":28,"pad":4},"exec_05_rachel":{"w":282,"h":95,"pad":5},"mem_05_olivia":{"w":282,"h":211,"pad":5},"exec_07_marcus":{"w":282,"h":95,"pad":5},"co_1241:29657":{"w":280,"h":122,"pad":4},"ph_fin":{"w":357,"h":724,"pad":0},"fin_07_ethan":{"w":282,"h":327,"pad":5},"ops_06_tom":{"w":282,"h":95,"pad":5},"co_1222:24347":{"w":280,"h":54,"pad":4},"multi_07_marcus":{"w":282,"h":95,"pad":5},"co_1212:22849":{"w":280,"h":54,"pad":4},"co_1272:36808":{"w":280,"h":150,"pad":4},"ops_02_marcus_v1":{"w":282,"h":360,"pad":5},"co_1212:21452":{"w":280,"h":54,"pad":4},"ph_intro1":{"w":357,"h":724,"pad":0},"co_1272:36768":{"w":280,"h":186,"pad":4},"ph_exec_1":{"w":357,"h":724,"pad":0},"co_1222:23996":{"w":280,"h":130,"pad":4},"mem_02_olivia":{"w":282,"h":95,"pad":5},"co_1225:26889":{"w":280,"h":54,"pad":4},"exec_01_you_ceo":{"w":282,"h":58,"pad":4},"co_1225:25827":{"w":280,"h":82,"pad":4},"mem_07_olivia":{"w":282,"h":111,"pad":5},"mem_04_olivia":{"w":282,"h":236,"pad":5},"exec_04_you_ceo":{"w":282,"h":42,"pad":4},"co_1244:35730":{"w":280,"h":54,"pad":4},"co_1225:26530":{"w":280,"h":54,"pad":4},"ph_exec":{"w":357,"h":724,"pad":0},"co_1241:29385":{"w":280,"h":74,"pad":4},"co_1241:31389":{"w":280,"h":54,"pad":4},"exec_06_sys":{"w":213,"h":28,"pad":4},"mem_06_you_ceo":{"w":282,"h":58,"pad":4},"co_1212:22457":{"w":280,"h":54,"pad":4},"co_1222:23664":{"w":280,"h":82,"pad":4},"co_1244:34808":{"w":280,"h":54,"pad":4},"mem_01_you_ceo":{"w":282,"h":58,"pad":4},"co_1244:35395":{"w":280,"h":102,"pad":4},"fin_03_ethan":{"w":282,"h":313,"pad":5}},"start":{"exec":["exec_00_sys"],"ops":["ops_00_sys"],"fin":["fin_00_sys"],"mem":["mem_00_sys"],"multi":["multi_00_sys"]},"ops":{"1212:21208":[["me","exec_01_you_ceo"]],"1212:21463":[["typing","exec_02_rachel"],["wait",1100],["reply","exec_02_rachel"]],"1212:21739":[["typing","exec_03_rachel"],["wait",1300],["reply","exec_03_rachel"]],"1212:22099":[["me","exec_04_you_ceo"]],"1212:22468":[["typing","exec_05_rachel"],["wait",1100],["reply","exec_05_rachel"],["wait",900],["chrome","ph_exec_1"],["add","exec_06_sys"]],"1212:22860":[["typing","exec_07_marcus"],["wait",1100],["reply","exec_07_marcus"]],"1222:23158":[["wait",300],["notif",["nt_ops",573,212.8]]],"1222:23415":[["unnotif"],["typing","ops_01_marcus"],["wait",1300],["reply","ops_01_marcus"]],"1222:23679":[["typing","ops_02_marcus"],["wait",1300],["reply","ops_02_marcus"]],"1222:24016":[["me","ops_03_you_ceo"]],"1222:24362":[["state","ops_01_marcus","ops_01_marcus_v1",240],["typing","ops_04_marcus"],["wait",1100],["reply","ops_04_marcus"],["wait",900],["chrome","ph_ops_1"],["add","ops_05_sys"]],"1222:24731":[["state","ops_02_marcus","ops_02_marcus_v1",240],["typing","ops_06_tom"],["wait",1100],["reply","ops_06_tom"],["wait",900],["typing","ops_07_nina"],["wait",1100],["reply","ops_07_nina"]],"1222:25140":[["typing","ops_08_marcus"],["wait",1300],["reply","ops_08_marcus"]],"1225:25314":[["me","fin_01_you_cfo"]],"1225:25568":[["typing","fin_02_ethan"],["wait",1100],["reply","fin_02_ethan"]],"1225:25842":[["typing","fin_03_ethan"],["wait",1300],["reply","fin_03_ethan"]],"1225:26189":[["me","fin_04_you_cfo"]],"1225:26545":[["chrome","ph_fin_1"],["add","fin_05_sys"]],"1225:26904":[["typing","fin_06_grace"],["wait",1100],["reply","fin_06_grace"]],"1225:27283":[["typing","fin_07_ethan"],["wait",1300],["reply","fin_07_ethan"]],"1241:29340":[["me","mem_01_you_ceo"]],"1241:29612":[["typing","mem_02_olivia"],["wait",1100],["reply","mem_02_olivia"]],"1241:29904":[["typing","mem_03_olivia"],["wait",1300],["reply","mem_03_olivia"]],"1241:30314":[["typing","mem_04_olivia"],["wait",1300],["reply","mem_04_olivia"]],"1241:30794":[["typing","mem_05_olivia"],["wait",1300],["reply","mem_05_olivia"]],"1241:31344":[["me","mem_06_you_ceo"]],"1241:31908":[["typing","mem_07_olivia"],["wait",1100],["reply","mem_07_olivia"]],"1244:34491":[["me","multi_01_you_ceo"]],"1244:34763":[["typing","multi_02_daniel"],["wait",1100],["reply","multi_02_daniel"]],"1244:35055":[["chrome","ph_multi_1"],["add","multi_03_sys"]],"1244:35350":[["typing","multi_04_grace"],["wait",1100],["reply","multi_04_grace"],["wait",900],["typing","multi_05_ethan"],["wait",1100],["reply","multi_05_ethan"]],"1244:35685":[["me","multi_06_you_ceo"]],"1244:36034":[["typing","multi_07_marcus"],["wait",1100],["reply","multi_07_marcus"]],"1244:36403":[["typing","multi_08_daniel"],["wait",1300],["reply","multi_08_daniel"]]},"hold":{"1212:21208":2400,"1212:21463":2800,"1212:21739":3600,"1212:22099":2400,"1212:22468":2800,"1212:22860":2800,"1222:23158":3200,"1222:23415":3600,"1222:23679":3600,"1222:24016":2400,"1222:24362":2800,"1222:24731":2800,"1222:25140":3600,"1225:25314":2400,"1225:25568":2800,"1225:25842":3600,"1225:26189":2400,"1225:26545":2800,"1225:26904":2800,"1225:27283":3600,"1241:29340":2400,"1241:29612":2800,"1241:29904":3600,"1241:30314":3600,"1241:30794":3600,"1241:31344":2400,"1241:31908":2800,"1244:34491":2400,"1244:34763":2800,"1244:35055":2800,"1244:35350":2800,"1244:35685":2400,"1244:36034":2800,"1244:36403":3600},"tabsLabel":"Choose a story","purpleBody":false};
+const AG_HOW = {"base":"/images/ag/b2b/","chat":{"x":17.8,"y":104.05,"w":321,"h":496},"chromes":{"intro":"ph_intro2","req":"ph_final"},"tabs":[{"key":"m1","label":"One Agent","icon":"<path d=\"M7.9 20A9 9 0 1 0 4 16.1L2 22Z\"/>"},{"key":"m2","label":"AI Agent Teams","icon":"<path d=\"M9.94 14.06 12 21l2.06-6.94L21 12l-6.94-2.06L12 3 9.94 9.94 3 12Z\"/><path d=\"M20 3v4\"/><path d=\"M22 5h-4\"/>"},{"key":"m3","label":"People + AI","icon":"<path d=\"M16 21v-2a4 4 0 0 0-4-4H6a4 4 0 0 0-4 4v2\"/><circle cx=\"9\" cy=\"7\" r=\"4\"/><path d=\"M22 21v-2a4 4 0 0 0-3-3.87\"/><path d=\"M16 3.13a4 4 0 0 1 0 7.75\"/>"},{"key":"req","label":"Request","icon":"<path d=\"M21 7.5V6a2 2 0 0 0-2-2H5a2 2 0 0 0-2 2v14a2 2 0 0 0 2 2h3.5\"/><path d=\"M16 2v4\"/><path d=\"M8 2v4\"/><path d=\"M3 10h5\"/><path d=\"M17.5 17.5 16 16.3V14\"/><circle cx=\"16\" cy=\"16\" r=\"6\"/>","final":true}],"frames":[{"id":"1260:34428","tab":"m1","chrome":"ph_m1","c":[["pr_1296:37233",960,464,340,96,"How it works","proc"]],"l":[]},{"id":"1260:34702","tab":"m1","chrome":"ph_m1","c":[["pr_1296:37243",960,430,340,164,"How it works","proc"]],"l":[]},{"id":"1260:35008","tab":"m1","chrome":"ph_m1","c":[["pr_1296:37266",960,430,340,164,"How it works","proc"]],"l":[]},{"id":"1260:35372","tab":"m1","chrome":"ph_m1","c":[["pr_1296:37289",960,398,340,228,"How it works","proc"]],"l":[]},{"id":"1260:35762","tab":"m2","chrome":"ph_m2","c":[["pr_1296:37319",960,464,340,96,"How it works","proc"]],"l":[]},{"id":"1260:36052","tab":"m2","chrome":"ph_m2","c":[["pr_1296:37329",960,431,340,162,"How it works","proc"]],"l":[]},{"id":"1260:36376","tab":"m2","chrome":"ph_m2_1","c":[["pr_1296:37355",960,431,340,162,"How it works","proc"]],"l":[]},{"id":"1260:36720","tab":"m2","chrome":"ph_m2_1","c":[["pr_1296:37381",960,431,340,162,"How it works","proc"]],"l":[]},{"id":"1260:37084","tab":"m2","chrome":"ph_m2_1","c":[["pr_1296:37407",960,397,340,230,"How it works","proc"]],"l":[]},{"id":"1260:37468","tab":"m2","chrome":"ph_m2_1","c":[["pr_1296:37444",960,365,340,314,"How it works","proc"]],"l":[]},{"id":"1260:37902","tab":"m3","chrome":"ph_m3","c":[["pr_1296:37488",960,431,340,162,"How it works","proc"]],"l":[]},{"id":"1260:38204","tab":"m3","chrome":"ph_m3","c":[["pr_1296:37514",960,431,340,162,"How it works","proc"]],"l":[]},{"id":"1260:38526","tab":"m3","chrome":"ph_m3","c":[["pr_1296:37540",960,399,340,226,"How it works","proc"]],"l":[]},{"id":"1260:38874","tab":"m3","chrome":"ph_m3","c":[["pr_1296:37573",960,383,340,324,"How it works","proc"]],"l":[]},{"id":"1260:39246","tab":"m3","chrome":"ph_m3","c":[["pr_1296:37611",960,335,340,420,"How it works","proc"]],"l":[]}],"meta":{"pr_1296:37444":{"w":340,"h":314,"pad":4},"pr_1296:37266":{"w":340,"h":164,"pad":4},"m1_02_sophie":{"w":282,"h":193,"pad":5},"pr_1296:37289":{"w":340,"h":228,"pad":4},"ph_m2_1":{"w":357,"h":724,"pad":0},"ph_final":{"w":357,"h":724,"pad":0},"m3_00_sys":{"w":49,"h":28,"pad":4},"m3_05_marcus":{"w":282,"h":95,"pad":5},"m3_01_you":{"w":282,"h":58,"pad":4},"pr_1296:37407":{"w":340,"h":230,"pad":4},"m2_02_adam":{"w":282,"h":95,"pad":5},"pr_1296:37573":{"w":340,"h":324,"pad":4},"pr_1296:37243":{"w":340,"h":164,"pad":4},"ph_intro2":{"w":357,"h":724,"pad":0},"m2_05_adam":{"w":282,"h":95,"pad":5},"pr_1296:37488":{"w":340,"h":162,"pad":4},"pr_1296:37233":{"w":340,"h":96,"pad":4},"pr_1296:37540":{"w":340,"h":226,"pad":4},"m1_03_sophie":{"w":282,"h":362,"pad":5},"ph_m1":{"w":357,"h":724,"pad":0},"pr_1296:37514":{"w":340,"h":162,"pad":4},"m3_03_ethan":{"w":282,"h":95,"pad":5},"pr_1296:37381":{"w":340,"h":162,"pad":4},"ph_m3":{"w":357,"h":724,"pad":0},"pr_1296:37355":{"w":340,"h":162,"pad":4},"pr_1296:37329":{"w":340,"h":162,"pad":4},"pr_1296:37611":{"w":340,"h":420,"pad":4},"m1_00_sys":{"w":49,"h":28,"pad":4},"m3_04_cfo":{"w":282,"h":95,"pad":5},"m1_01_you":{"w":282,"h":58,"pad":4},"m2_06_adam":{"w":282,"h":218,"pad":5},"m3_02_marcus":{"w":282,"h":95,"pad":5},"ph_m2":{"w":357,"h":724,"pad":0},"pr_1296:37319":{"w":340,"h":96,"pad":4},"m2_01_you":{"w":282,"h":58,"pad":4},"m2_03_ethan":{"w":282,"h":95,"pad":5},"m2_00_sys":{"w":49,"h":28,"pad":4},"m2_04_jake":{"w":282,"h":95,"pad":5},"m1_04_sophie":{"w":282,"h":111,"pad":5}},"start":{"m1":["m1_00_sys"],"m2":["m2_00_sys"],"m3":["m3_00_sys"]},"ops":{"1260:34428":[["me","m1_01_you"]],"1260:34702":[["typing","m1_02_sophie"],["wait",1300],["reply","m1_02_sophie"]],"1260:35008":[["typing","m1_03_sophie"],["wait",1300],["reply","m1_03_sophie"]],"1260:35372":[["typing","m1_04_sophie"],["wait",1100],["reply","m1_04_sophie"]],"1260:35762":[["me","m2_01_you"]],"1260:36052":[["typing","m2_02_adam"],["wait",1100],["reply","m2_02_adam"]],"1260:36376":[["chrome","ph_m2_1"],["typing","m2_03_ethan"],["wait",1100],["reply","m2_03_ethan"]],"1260:36720":[["typing","m2_04_jake"],["wait",1100],["reply","m2_04_jake"]],"1260:37084":[["typing","m2_05_adam"],["wait",1100],["reply","m2_05_adam"]],"1260:37468":[["typing","m2_06_adam"],["wait",1300],["reply","m2_06_adam"]],"1260:37902":[["me","m3_01_you"]],"1260:38204":[["typing","m3_02_marcus"],["wait",1100],["reply","m3_02_marcus"]],"1260:38526":[["typing","m3_03_ethan"],["wait",1100],["reply","m3_03_ethan"]],"1260:38874":[["typing","m3_04_cfo"],["wait",1100],["reply","m3_04_cfo"]],"1260:39246":[["typing","m3_05_marcus"],["wait",1100],["reply","m3_05_marcus"]]},"hold":{"1260:34428":2400,"1260:34702":2800,"1260:35008":3600,"1260:35372":2800,"1260:35762":2400,"1260:36052":2800,"1260:36376":2800,"1260:36720":2800,"1260:37084":2800,"1260:37468":3600,"1260:37902":2400,"1260:38204":2800,"1260:38526":2800,"1260:38874":2800,"1260:39246":2800},"tabsLabel":"How TMAI works","mobileFinalHeight":88};
 TMAIBlock(document.getElementById('stories'), AG_STORIES);
 const agHow = TMAIBlock(document.getElementById('how'), AG_HOW);
 document.querySelector('.hero .dl').addEventListener('click', e=>{ e.preventDefault(); const s=document.getElementById('stories'); scrollTo({top:s.getBoundingClientRect().top+scrollY, behavior:matchMedia('(prefers-reduced-motion: reduce)').matches?'auto':'smooth'}); });

diff --git a/assets/site.css b/assets/site.css
@@ -470,13 +470,16 @@ a{color:inherit}
 .ag-tc .cat{margin:0;font-size:18px;line-height:28px;color:var(--p-muted)}
 .ag-tc h3{margin:16px 0 0;font-weight:600;font-size:44px;line-height:46px;letter-spacing:-.04em;color:var(--p-fg)}
 .ag-tc .desc{margin:16px 0 0;font-size:18px;line-height:28px;color:var(--p-muted)}
-.ag-tc .conn{margin-top:40px;padding-top:24px;border-top:1px solid #e5e5e5}
+/* «Connected to your organization»: a white plate under the mode copy (Figma 1371:49918) */
+.ag-tc .conn{margin-top:40px;padding:32px;border-radius:24px;background:#fff;display:flex;flex-direction:column;gap:24px}
 .ag-tc .conn b{display:block;font-weight:500;font-size:12px;line-height:16px;letter-spacing:.08em;text-transform:uppercase;color:var(--p-muted)}
-.ag-tc .conn ul{margin:16px 0 0;padding:0;list-style:none;display:grid;grid-template-columns:178px 1fr;row-gap:8px}
-.ag-tc .conn li{position:relative;padding-left:15px;font-size:15px;line-height:22px;color:#404040}
-.ag-tc .conn li::before{content:"";position:absolute;left:3px;top:9px;width:4px;height:4px;border-radius:50%;background:var(--accent);opacity:.6}
-.ag-tc .own{display:flex;align-items:center;gap:8px;margin:28px 0 0;font-weight:600;font-size:15px;line-height:22px;color:var(--p-fg)}
+.ag-tc .conn ul{margin:16px 0 0;padding:0;list-style:none;display:flex;flex-direction:column;gap:8px}
+.ag-tc .conn li{display:flex;align-items:center;gap:10px;font-size:15px;line-height:22px;color:#404040}
+.ag-tc .conn li::before{content:"";flex:none;width:5px;height:5px;border-radius:1px;background:rgba(124,58,237,.4)}
+.ag-tc .own{display:flex;align-items:center;gap:8px;margin:0;font-weight:600;font-size:15px;line-height:22px;color:var(--p-fg)}
 .ag-tc .own svg{width:16px;height:16px}
+/* the mode column (copy + plate) is centred on the phone, as in the storyboard */
+.ag-tc.mid{top:414px;translate:0 -50%}
 
 /* per-story copy on phones: under the block title, one cell for all stories so switching never moves the phone */
 .ag-tcopy{display:none}
